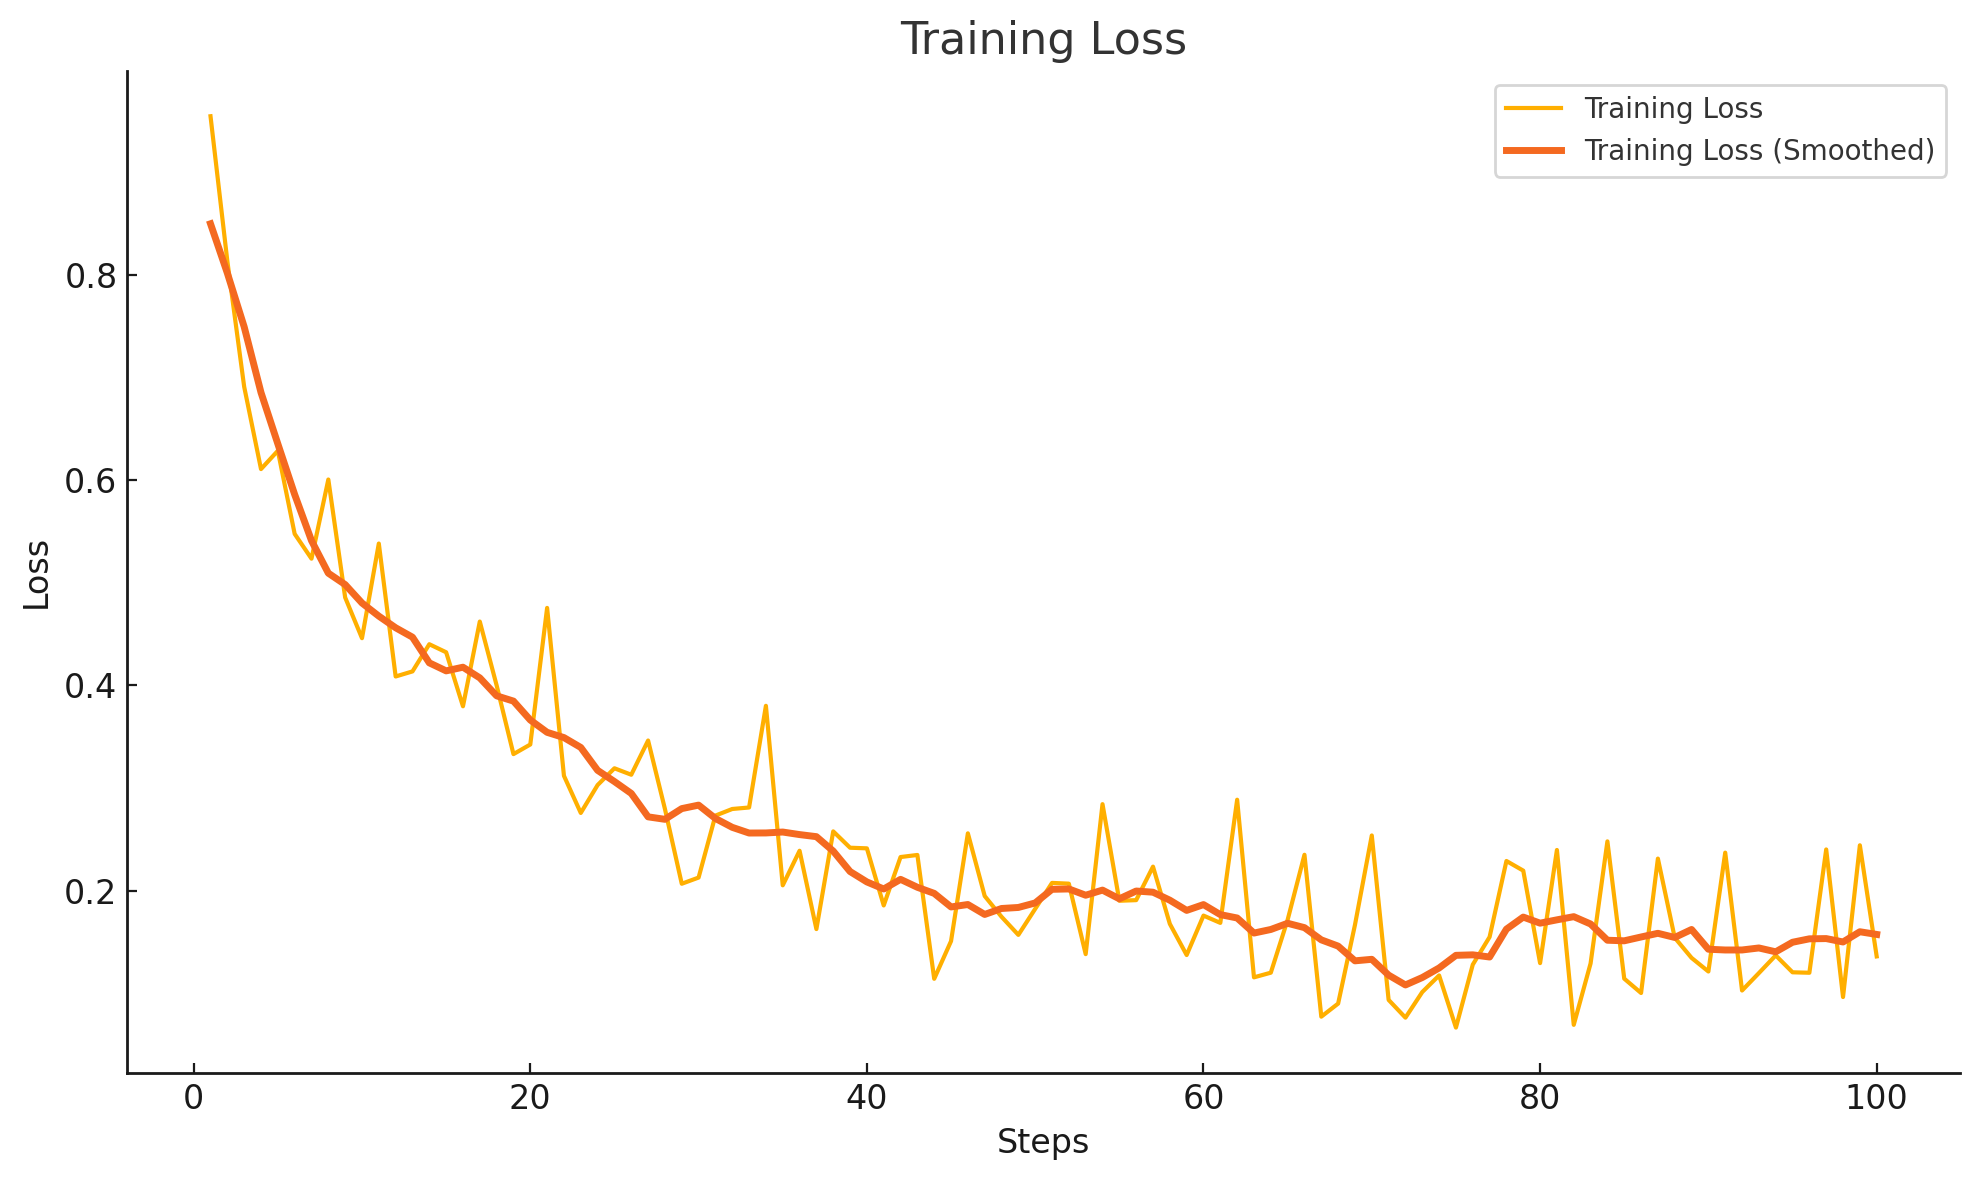
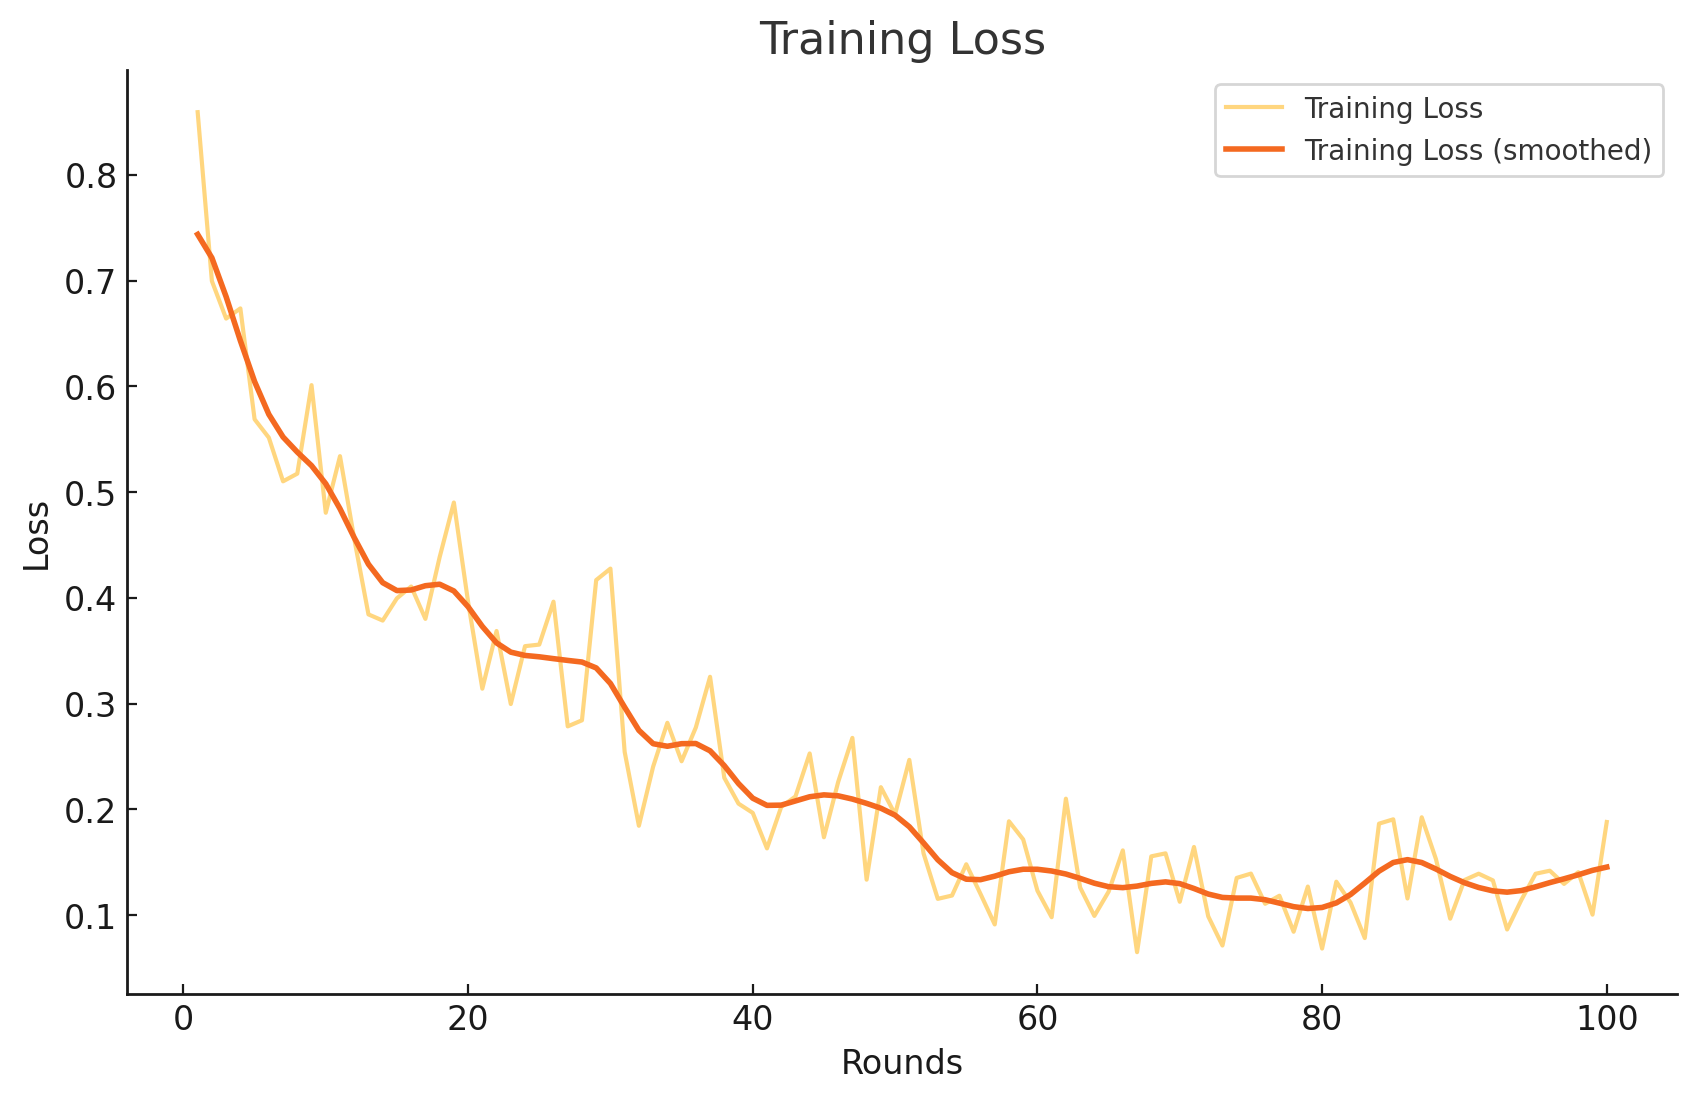
use dora

diff --git a/flowertune_nlp/models.py b/flowertune_nlp/models.py
@@ -64,7 +64,8 @@ def get_model(model_cfg: DictConfig):
             "k_proj",
             "v_proj",
             "LinearHeadwiseExpand",
-        ]
+        ],
+        use_dora=True,
     )
 
     if model_cfg.gradient_checkpointing:

diff --git a/README.md b/README.md
@@ -15,7 +15,7 @@ The fine-tuning results have been submitted as a PEFT adapter and can be accesse
 
 ## Methodology
 
-This experiment performs federated LLM fine-tuning with [LoRA](https://arxiv.org/pdf/2106.09685) using the [🤗PEFT](https://huggingface.co/docs/peft/en/index) library.
+This experiment performs federated LLM fine-tuning with [DoRA](https://arxiv.org/abs/2402.09353) using the [🤗PEFT](https://huggingface.co/docs/peft/en/index) library.
 The clients' models are aggregated with FedAvg strategy.
 This provides a baseline performance for the leaderboard of General NLP challenge.
 
@@ -26,7 +26,7 @@ For the **NX-AI/xLSTM-7b** model I adopted the following fine-tuning methodology
 
 - **Precision**: `bf16` for model weights.
 - **Quantization**: `4-bit` quantization for reduced memory usage.
-- **LoRA Configuration**:
+- **[DoRA](https://arxiv.org/abs/2402.09353) Configuration**:
   - Rank (r): `16`
   - Alpha: `128`
   - Target Modules:
@@ -58,14 +58,14 @@ This methodology enabled efficient fine-tuning within constrained resources whil
 
 ### Evaluation Results (Accuracy)
 
-- **STEM**: 12.62 %
-- **Social Sciences**: 14.95 %
-- **Humanities**: 13.56 %
-- **Average**: 13.71 %
+- **STEM**: 13.67 %
+- **Social Sciences**: 14.84 %
+- **Humanities**: 17.55 %
+- **Average**: 15.35 %
 
 ### Communication Budget
 
-58765.62 Megabytes
+60609.38 Megabytes
 
 
 ## Environments setup
